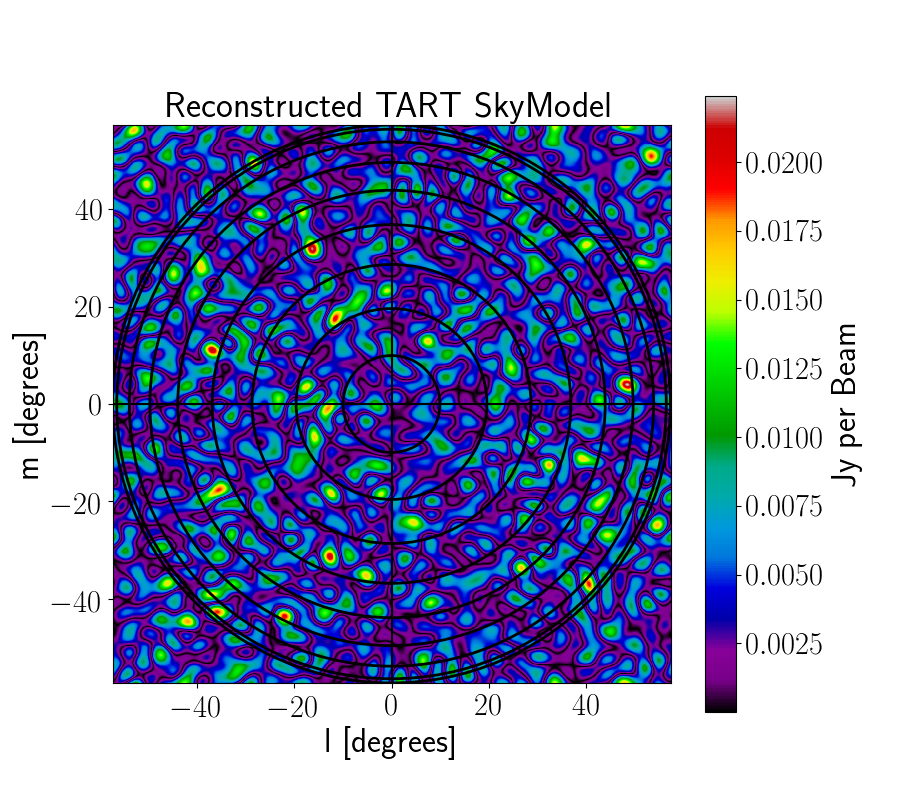
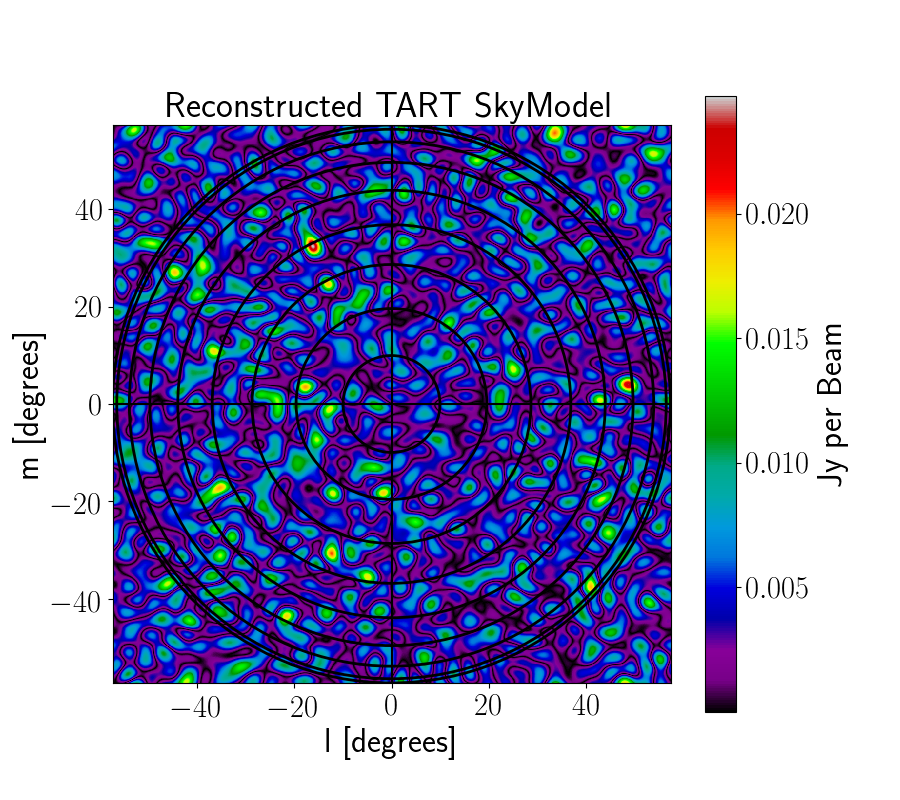
added final report as well

diff --git a/Report/sections/results.tex b/Report/sections/results.tex
@@ -174,19 +174,19 @@ It can also be noted that in both images for TART, the color scale is not correc
   \centering
   \begin{subfigure}[b]{0.49\textwidth}
     \centering
-    \includegraphics[scale=0.28]{images/1-11-19_16:23_SA_PIPE_CIRCLES.png}
-    \caption{Image from the SA TART interferometer through the pipeline at 16:23 on 1 November 2019.}
+    \includegraphics[scale=0.28]{images/7-11-19_13:41_SA_PIPE_CIRCLES.png}
+    \caption{Image from the SA TART interferometer through the pipeline at 13:41 on 7 November 2019.}
     \label{fig:TART_SA}
   \end{subfigure}
   %
   \begin{subfigure}[b]{0.49\textwidth}
     \centering
-    \includegraphics[scale=0.35]{images/1-11-19_16:23_SA_WEB_CIRCLES.png}
-    \vspace*{13mm}
-    \caption{Image from the SA TART interferometer through the API at 16:23 on 1 November 2019.}
+    \includegraphics[scale=0.35]{images/7-11-19_13:41_SA_WEB_CIRCLES.png}
+    \vspace*{6mm}
+    \caption{Image from the SA TART interferometer through the API at 13:41 on 7 November 2019.}
     \label{fig:TART_SA_WEB}
   \end{subfigure}
-  \caption{Images from the TART pipeline and the web API at 16:23 on 1 November 2019.}
+  \caption{Images from the TART pipeline and the web API at 13:41 on 7 November 2019.}
   \label{fig:TART_RESULTS}
 \end{figure}
 The interferometer can only view the whole sky, the outer circle is the edge of the horizon so everything outside it is noise. This can be seen in figure \ref{fig:TART_SA}. Some points that are easy to identity in both \ref{fig:TART_SA} and \ref{fig:TART_SA_WEB} are circled in red.
@@ -195,18 +195,18 @@ The interferometer can only view the whole sky, the outer circle is the edge of 
   \centering
   \begin{subfigure}[b]{0.49\textwidth}
     \centering 
-    \includegraphics[scale=0.3]{images/1-11-19_16:23_SA_PIPE_PSF.png}
-    \caption{PSF from the SA TART interferometer through the pipeline at 16:23 on 1 November 2019.}
+    \includegraphics[scale=0.3]{images/7-11-19_13:41_SA_PIPE_PSF.png}
+    \caption{PSF from the SA TART interferometer through the pipeline at 13:41 on 7 November 2019.}
     \label{fig:TART_SA_PSF}
   \end{subfigure}
   %
   \begin{subfigure}[b]{0.49\textwidth}
  \centering
-    \includegraphics[scale=0.3]{images/1-11-19_16:23_SA_PIPE_GRID.png}
-    \caption{Grid from the SA TART interferometer through the pipeline at 16:23 on 1 November 2019.}
+    \includegraphics[scale=0.3]{images/7-11-19_13:41_SA_PIPE_GRID.png}
+    \caption{Grid from the SA TART interferometer through the pipeline at 13:41 on 7 November 2019.}
     \label{fig:TART_SA_GRID}
   \end{subfigure}
-  \caption{The TART PSF and grid at 16:23 on 1 November 2019.}
+  \caption{The TART PSF and grid at 13:41 on 7 November 2019.}
   \label{fig:HERA-19}
 \end{figure}
 
@@ -217,7 +217,9 @@ It is quite clear that the image from the pipeline in figure
 \FloatBarrier
 \subsection{Conclusion}
 The pipeline works correctly if the correct field of view is chosen for the images and if the user selects the correct cell size.\\
-The images obtained from TART do not show much detail as TART is not a very powerful interferometer and has a field of view of only 3$^\circ$. As such, the results that are obtained from it will never match what is being produced by larger projects. So images will never show high levels of detail. TART is also a whole sky interferometer, this also means that the images are less detailed as they don't focus on a small area of the sky which would allow for higher details.
+The images obtained from TART in the simulation do not show much detail as TART is not a very powerful interferometer and has a field of view of only 4$^\circ$.
+TART is also a whole sky interferometer, this also means that the images are less detailed as they don't focus on a small area of the sky which would allow for higher details. Due to this, TART images will never show high levels of detail. 
+As such, the results that are obtained from it will never match what is being produced by more powerful interferometers which focus on specific small fields of view. 
 \\The fact that the API and pipeline images are the same shows that the pipeline is working as intended and the project was a success.
 % It is however a perfect tool to teach students how radio interferometry works and if this pipeline was turned into a teaching tool it could explain the subject matter while having a real interferometer to show results with.
 

diff --git a/Report/sections/background.tex b/Report/sections/background.tex
@@ -141,13 +141,13 @@ Aliasing is an effect that results in misidentification of signals and introduce
 
 \subsubsection{Gridding}
 Gridding is the process of placing the visibilities that have been received by the interferometer and placing them onto a UV plane.\\
-The visibilities in the UV plane must be placed onto an image grid which is a two dimensional grid with $N_l \times N_m$ representing the size. Each pixel in the grid has a cell size of $(\Delta \theta_l, \Delta \theta_m)$. The UV tracks are scaled down to the image size which means the the $\Delta u$ and $\Delta v$ are equivalent to the $\Delta l$  and $\Delta m$. In order to calculate the size of the image from the cell size, the following equation must be applied. 
+The visibilities in the UV plane must be placed onto an image grid which is a two dimensional grid with $N_l \times N_m$ representing the size. Each pixel in the grid has a cell size of $(\Delta \theta_l, \Delta \theta_m)$. The UV tracks are scaled down to the image size which means the the $\Delta u$ and $\Delta v$ are equivalent to the $\Delta l$  and $\Delta m$. This means that the visibilities can be directly applied to the grid. In order to calculate the size of the image from the cell size, the following equation must be applied. 
 $$N_l = \frac{\theta_l}{\Delta \theta_l}$$
 $$N_m = \frac{\theta_m}{\Delta \theta_m}$$
 Where,  $\Delta \theta_l\sim \Delta l$ , $\Delta \theta_m \sim \Delta m$, and $\Delta l = \cos{\Delta \theta_l}$, $\Delta m = \cos{\Delta \theta_m}$. The cell size that is chosen must satisfy the Nyquist theorem in order to avoid aliasing.\\
 The visibilities are placed on the grid by convolving the visibilities along the sampling tracks with a function. This is then discretised onto regular points by using a shah function.\\
 $V_\text{gridded}[u,v]=[(\mathcal{V}(u,v) \, S(u,v))
-\circ C(u,v)] \, III[u,v]$,\\
+\circ C(u,v)] \, III[u,v]$,
 where $\mathcal{V}(u,v)$ is the visibility's, $ S(u,v)$ is
 the sampling tracks, $C(u,v)$ is the convolution function, and $III[u,v]$ is the shah function.\\
 The inverse Fourier Transform can be applied to this grid in order to obtain an image grid, which represents the sky above the interferometer.
